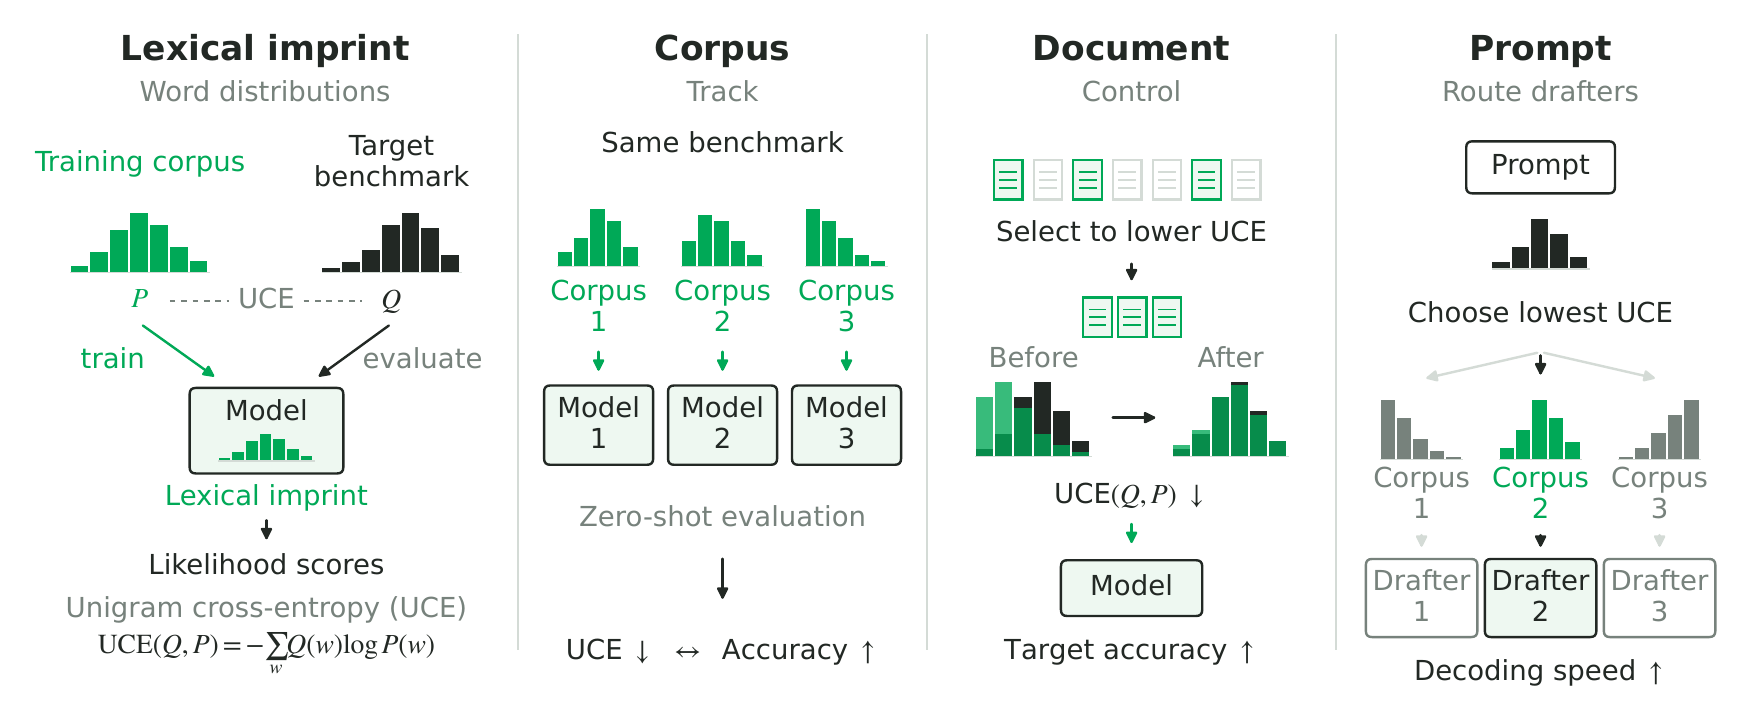
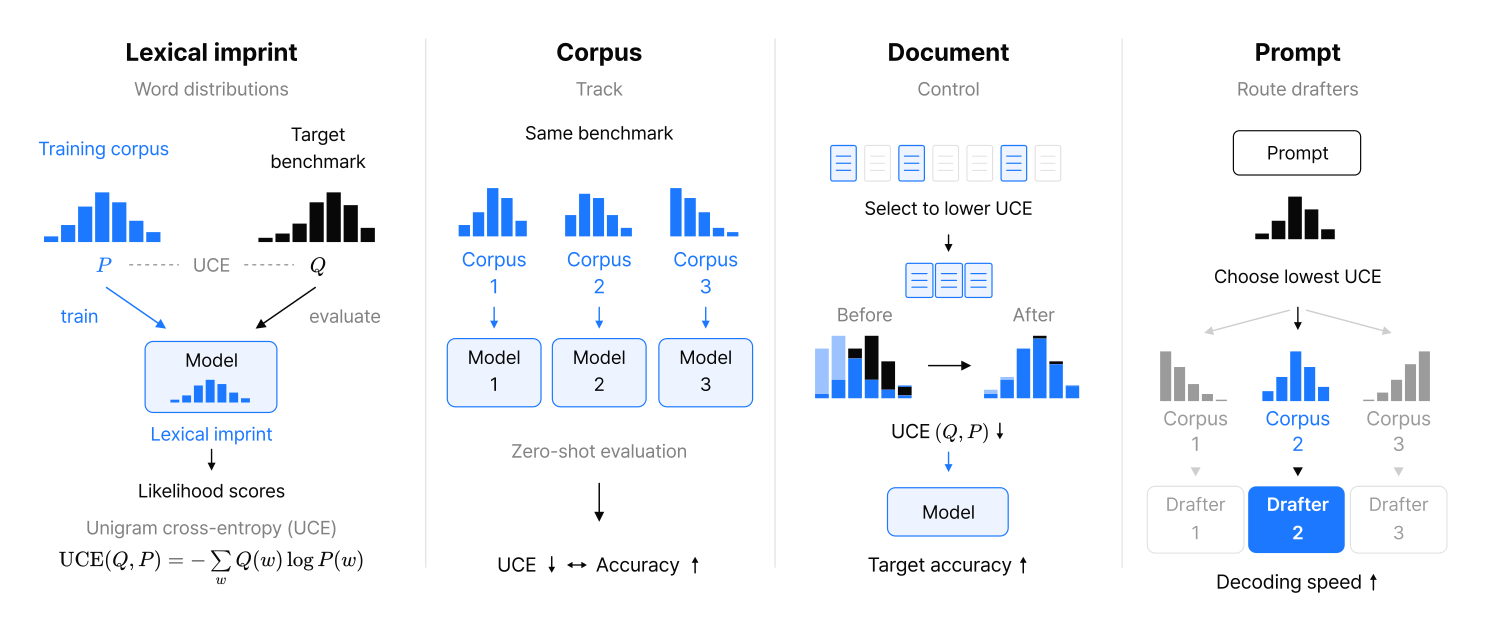
Align the README with the camera-ready paper and test nested kept subsets
README: replace the teaser with the paper's current Figure 1, describe the
kept-share sweep of Section 5.2 (keeping a smaller share lowers target UCE,
and target accuracy rises as it falls), point the UCE-filter to
Sections 5.1-5.3, name the --top_pct values for the 40, 60 and 80% subsets,
and move the 30B case study to Section 5.4.

ce_filter: the README and the --top_pct help name the paper's 20% setting
as the one of Section 5.3 and list the other shares of Section 5.2. A new
test checks that runs differing only in --top_pct cut one brute-force
ranking, ties included, so their kept subsets are nested.

diff --git a/tests/test_ce_filter.py b/tests/test_ce_filter.py
@@ -333,6 +333,31 @@ def test_ties_at_cutoff_are_broken_by_row_index(tmp_path):
     assert outputs[0] == outputs[1] == outputs[2] == want
 
 
+def test_kept_subsets_are_nested_across_top_pct(tmp_path):
+    """Section 5.2 ranks the rows once and keeps the top 20, 40, 60 or 80%. One run per --top_pct
+    writes the same subsets: each run cuts the one brute-force ranking, ties included, so a
+    smaller kept subset lies inside a larger one."""
+    rng = random.Random(9)
+    texts = random_texts(30, seed=8) + [f"j{i}a j{i}b j{i}c" for i in range(10)]  # junk rows: equal ΔH
+    rng.shuffle(texts)
+    bench = write_bench(tmp_path / "bench", {"a": BENCH_A, "b": BENCH_B})
+    corpus = write_corpus(tmp_path / "corpus", texts, n_files=3, row_group_size=4)
+    kept, orders = {}, []
+    for pct in (20, 40, 60, 80):
+        removed, _, order, _ = ref_removed(BENCH_A + BENCH_B, texts, pct)
+        orders.append(order)
+        out = tmp_path / f"out{pct}.parquet"
+        r = run_cli("--bench_path", bench, "--train_path", corpus, "--out_parquet", out,
+                    "--top_pct", str(pct), "--skip_step6", *WORKERS)
+        assert r.returncode == 0, r.stderr
+        kept[pct] = kept_rids(out)
+        assert kept[pct] == [i for i in range(len(texts)) if i not in removed]
+    assert all(o == orders[0] for o in orders)
+    assert len(kept[20]) > len(kept[40]) > len(kept[60]) > len(kept[80])
+    for larger, smaller in ((20, 40), (40, 60), (60, 80)):
+        assert set(kept[smaller]) <= set(kept[larger])
+
+
 # ------------------------------------------------------------------
 # Failures that used to pass silently
 # ------------------------------------------------------------------

diff --git a/ce_filter/ce_filter.py b/ce_filter/ce_filter.py
@@ -1114,7 +1114,8 @@ def main():
     parser.add_argument("--top_pct",         type=float, default=80.0,
                         help="Percent of rows to REMOVE: the rows with the smallest ΔH (the least aligned "
                              "with Q); all other rows are written. Must be in [0, 100). "
-                             "Default 80 = the paper setting (removes 80%%, keeps 20%%).")
+                             "Default 80 = the paper's setting in Section 5.3 (removes 80%%, keeps 20%%); "
+                             "Section 5.2 also uses 60, 40 and 20.")
     parser.add_argument("--batch_size",      type=int,   default=8192)
     parser.add_argument("--worker_batch",    type=int,   default=1024,
                         help="Rows per scoring-worker batch (recommended: 1024-2048).")

diff --git a/README.md b/README.md
@@ -13,12 +13,12 @@
 </p>
 
 <p align="center">
-  <img src="assets/teaser.png" width="92%" alt="Unigram cross-entropy at the corpus, document, and prompt scopes">
+  <img src="assets/teaser.png" width="92%" alt="The lexical imprint of pre-training data, and unigram cross-entropy at the corpus, document, and prompt levels">
 </p>
 
 This repository contains the code for the NeurIPS 2026 paper **The Lexical Imprint of Pre-training Data**.
 
-Word-level unigram cross-entropy (UCE) measures how closely the word distribution of a reference corpus matches that of a target benchmark. In controlled from-scratch pre-training on four corpora at three model scales, lower UCE goes with higher zero-shot accuracy on each of the 10 benchmarks in this sweep. Selecting training documents that lower UCE against a target (the UCE-filter) raises accuracy on that target above a random selection at the same token budget. Routing each prompt to the drafter whose training corpus has the lowest UCE against it raises speculative-decoding throughput.
+Word-level unigram cross-entropy (UCE) measures how closely the word distribution of a reference corpus matches that of a target benchmark. In controlled from-scratch pre-training on four corpora at three model scales, lower UCE goes with higher zero-shot accuracy on each of the 10 benchmarks in this sweep. The UCE-filter selects the training documents most aligned with a target. Within one corpus and at a fixed token budget, keeping a smaller share of the documents lowers the UCE of the kept subset against the target, and accuracy on the target rises as that UCE falls. Keeping 20% raises target accuracy above a random selection from the same corpus. Routing each prompt to the drafter whose training corpus has the lowest UCE against it raises speculative-decoding throughput.
 
 The repository provides the paper's components: the UCE metric, the UCE-filter, and the benchmark preprocessing that builds the target word distribution *Q*. Each comes with tests.
 
@@ -27,7 +27,7 @@ The repository provides the paper's components: the UCE metric, the UCE-filter, 
 | Path | What it does | Paper |
 |---|---|---|
 | [`unigram_ce/`](unigram_ce) | Word-level unigram cross-entropy between a pre-training corpus and one benchmark or a pooled group of benchmarks | §3, §4, App. A.1 |
-| [`ce_filter/`](ce_filter) | UCE-filter (named CE-filter in the code): analytic row-local ΔH scoring that removes the `--top_pct`% least-aligned rows (paper: 80, keeps 20%) | §5.1, §5.2 |
+| [`ce_filter/`](ce_filter) | UCE-filter (named CE-filter in the code): analytic row-local ΔH scoring that removes the `--top_pct`% least-aligned rows (§5.2 keeps 20, 40, 60 and 80%; §5.3 keeps 20%, `--top_pct 80`) | §5.1–§5.3 |
 | [`benchmarks/`](benchmarks) | Downloads the benchmark text that defines *Q*: the CSR7 targets and the four out-of-target tasks (no MMLU) | §4.1, §5.2 |
 | [`tests/`](tests) | pytest tests for the three components (no network needed) | |
 
@@ -64,7 +64,7 @@ python unigram_ce/compute_unigram_ce.py \
     --n_workers 64 --bits
 ```
 
-Run the UCE-filter against the pooled CSR7 target. `--top_pct 80` removes the 80% of rows least aligned with *Q* and keeps 20%, the paper setting:
+Run the UCE-filter against the pooled CSR7 target. `--top_pct 80` removes the 80% of rows least aligned with *Q* and keeps 20%, the setting that Section 5.3 compares with other selection methods:
 
 ```bash
 python ce_filter/ce_filter.py \
@@ -76,6 +76,8 @@ python ce_filter/ce_filter.py \
     --skip_seq_apply \
     --top_pct 80
 ```
+
+For the other kept shares of Section 5.2, run the same command with `--top_pct 60`, `40` or `20`, which keep 40, 60 or 80% of the rows.
 
 The first command writes `/data/csr7/<task>/<task>.parquet` for each task and the combined directory `/data/csr7/benchmark_group_en/` with the same seven files. A directory passed as `--bench_path` is pooled into one *Q*, weighted by word count, so the UCE-filter targets the seven tasks together. Pass the combined directory, not the output root.
 
@@ -100,7 +102,7 @@ This prints `H_after (recomputed)` in bits and does not need `--train_path`. Run
 
 where *V_b* is the benchmark vocabulary. Corpus counts of benchmark words that never occur in the corpus are floored at one: P(w) = max(c(w), 1) / (T + B), where T counts all word tokens of the corpus and B is the number of benchmark words with c(w) = 0 (Appendix A.1). Positive counts are unchanged, so this is not Laplace smoothing. Words come from NFKC normalization, punctuation stripping, and whitespace splitting, without lowercasing, as in the paper. The UCE script and the UCE-filter share this tokenizer, and `--lowercase` in `unigram_ce/compute_unigram_ce.py` lowercases words first (a preprocessing ablation in the paper's appendix). The paper reports bits. `compute_unigram_ce.py` prints nats and adds bits with `--bits`. `ce_filter.py` prints bits.
 
-**UCE-filter.** For each training row *r*, the change in UCE from removing *r* alone, ΔH(*r*), has a closed form that depends only on the words in *r* and the corpus counts. One pass counts the benchmark words in the corpus, and a second pass scores every row. The `--top_pct` percent of rows with the smallest ΔH, the rows whose removal lowers UCE the most, are then removed together. The remaining rows are the share most aligned with *Q* and are written in their original order. The paper removes 80% of the rows and keeps 20% (`--top_pct 80`, the default). Rows with null text are never scored and always kept. Ties at the cutoff are broken by row index, so the output is deterministic. In the paper's runs, with `--skip_seq_apply` on one 120-core machine, a selection took about 3.5 hours on the FineWeb-Edu pool and 8.3 hours on the DCLM pool. The removal set stays in memory. At `--top_pct 80` it takes about 44 GB of RAM for a 339M-row corpus (the paper's FineWeb-Edu pool) and about 82 GB for 630M rows (DCLM).
+**UCE-filter.** For each training row *r*, the change in UCE from removing *r* alone, ΔH(*r*), has a closed form that depends only on the words in *r* and the corpus counts. One pass counts the benchmark words in the corpus, and a second pass scores every row. The `--top_pct` percent of rows with the smallest ΔH, the rows whose removal lowers UCE the most, are then removed together. The remaining rows are the share most aligned with *Q* and are written in their original order. The default, `--top_pct 80`, removes 80% of the rows and keeps 20%, the setting of Section 5.3. Section 5.2 varies the kept share from 20% to 80%. Runs with different `--top_pct` score the rows identically and break ties the same way, so a smaller kept subset always lies inside a larger one, as if one ranking were cut at several points. Rows with null text are never scored and always kept. Ties at the cutoff are broken by row index, so the output is deterministic. In the paper's runs, with `--skip_seq_apply` on one 120-core machine, a selection took about 3.5 hours on the FineWeb-Edu pool and 8.3 hours on the DCLM pool. The removal set stays in memory. At `--top_pct 80` it takes about 44 GB of RAM for a 339M-row corpus (the paper's FineWeb-Edu pool) and about 82 GB for 630M rows (DCLM).
 
 **Benchmarks.** `benchmarks/preprocess_csr7.py` downloads the benchmarks of the UCE-filter study from the Hugging Face Hub. It writes one parquet file per task and a combined `benchmark_group_en/` directory that holds the tasks written by that run. The targeted group (CSR7) is ARC-Easy, ARC-Challenge, HellaSwag, SciQ, OpenBookQA, PIQA, and SWAG. The out-of-target group (OOT-4) is LAMBADA, CommonsenseQA, BoolQ, and Social IQA. Each row's text joins the raw dataset fields. For most tasks this is the question or context followed by all answer choices. SciQ adds the support passage, BoolQ is the passage and the question, and LAMBADA is the passage. HellaSwag and CommonsenseQA are read from their train and validation splits. The paper's *Q* also pooled their test splits, which moves UCE by 0.01 to 0.02 bits on our corpus samples. MMLU, which Section 4 also uses, is not included.
 
@@ -116,7 +118,7 @@ Not included:
 - the baseline selections (DSIR, BETR) and the random control
 - pre-training and evaluation (the paper's appendix gives the training and evaluation configuration)
 - the inference-time routing study (Section 6)
-- the 30B case study (Section 5.3)
+- the 30B case study (Section 5.4)
 - scripts for the appendix analyses (most of them combine the functions here)
 
 ## Testing

diff --git a/ce_filter/README.md b/ce_filter/README.md
@@ -31,7 +31,8 @@ python benchmarks/preprocess_csr7.py \
 
 Its `benchmark_group_en/` directory then holds the 7 task files.
 Filter the corpus `/data/cc_dump/` against it. `--top_pct 80` removes
-the 80% of rows least aligned with Q and keeps 20%, the paper setting.
+the 80% of rows least aligned with Q and keeps 20%, the paper's setting
+for the comparison with other selection methods (§5.3).
 This example writes the kept rows as 12 shard files into
 `/data/ucef_keep20_shards/`:
 
@@ -74,8 +75,9 @@ line is printed to stderr.
 
 `--top_pct` is the percent of rows REMOVED. The removed rows are those
 with the smallest ΔH, so `--top_pct 80` removes 80% of the rows and
-keeps the 20% most aligned with Q. This is the paper setting and the
-default.
+keeps the 20% most aligned with Q. This is the default and the paper's
+setting in §5.3. §5.2 also keeps 40, 60 and 80% of each corpus
+(`--top_pct 60`, `40` and `20`).
 
 - K = `max(1, int(N_text * top_pct / 100))`, at most N_text, where
   N_text is the number of rows with non-null text. `--top_pct 0`
@@ -98,6 +100,10 @@ The summary prints the share actually removed, as
   at the cutoff, the row with the larger row index (later in the
   corpus) is removed first, so repeated runs write the same rows
   whatever the worker scheduling.
+- Runs that differ only in `--top_pct` score and order the rows the
+  same way, so their kept subsets are nested: the 20% subset lies
+  inside the 40% subset, and so on. This is the same as ranking the
+  rows once and cutting the ranking at several points, as §5.2 does.
 
 ## Errors
 
